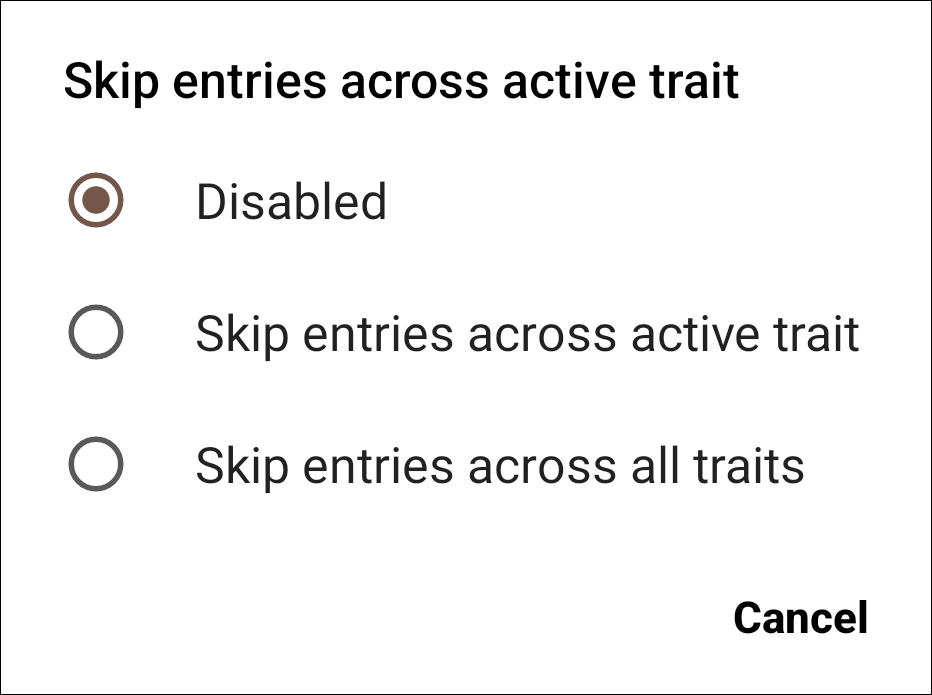
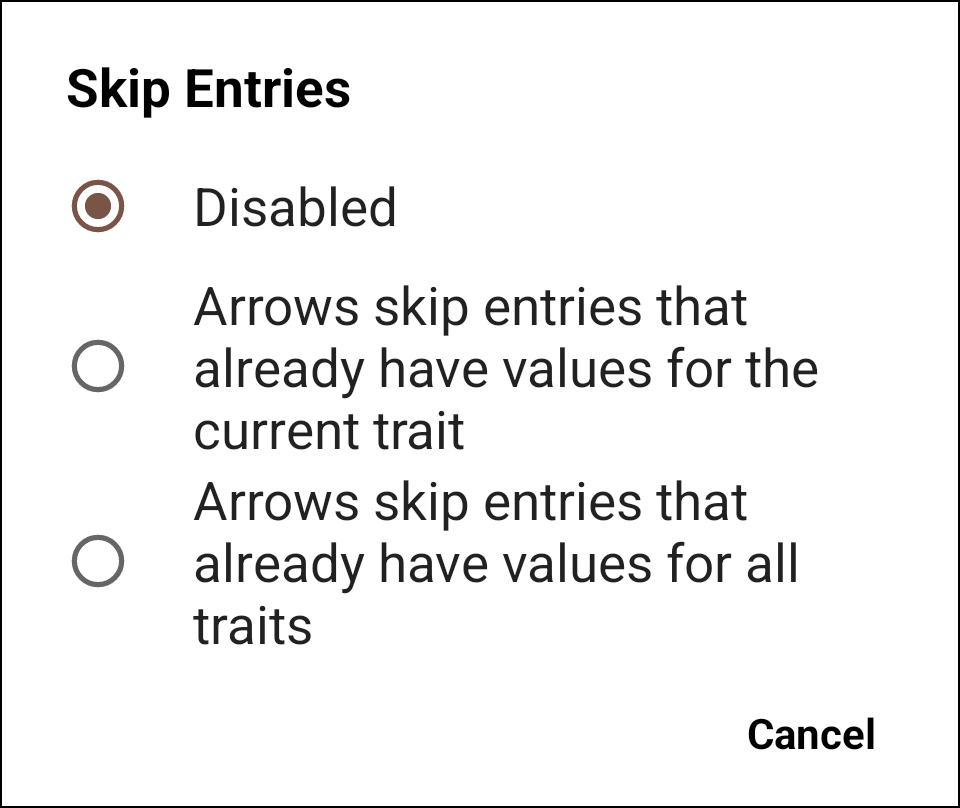
update images

diff --git a/docs/settings/settings-behavior.md b/docs/settings/settings-behavior.md
@@ -24,7 +24,7 @@ Disables the left, right, or both entry arrows unless data has been
 collected to ensure an entry isn't skipped during data collection.
 
 <figure align="center" class="image">
-  <img src="_static/images/settings/behavior/settings_behavior_disable_nav.png" width="325px"> 
+  <img src="_static/images/settings/behavior/settings_behavior_require_data.png" width="325px"> 
   <figcaption><i>Choice of direction
 disabled</i></figcaption> 
 </figure>
@@ -68,7 +68,7 @@ behavior</i></figcaption>
 Data
 ----
 
-#### <img ref="day" style="vertical-align: middle;" src="_static/icons/settings/behavior/calendar-today.png" width="20px"> Use day of year
+#### <img ref="day" style="vertical-align: middle;" src="_static/icons/settings/behavior/calendar-today.png" width="20px"> Use Day Of Year
 
 Changes the date trait format to record date values as numbers counting
 up from Jan 1, rather than traditional dates. For example `96` instead
